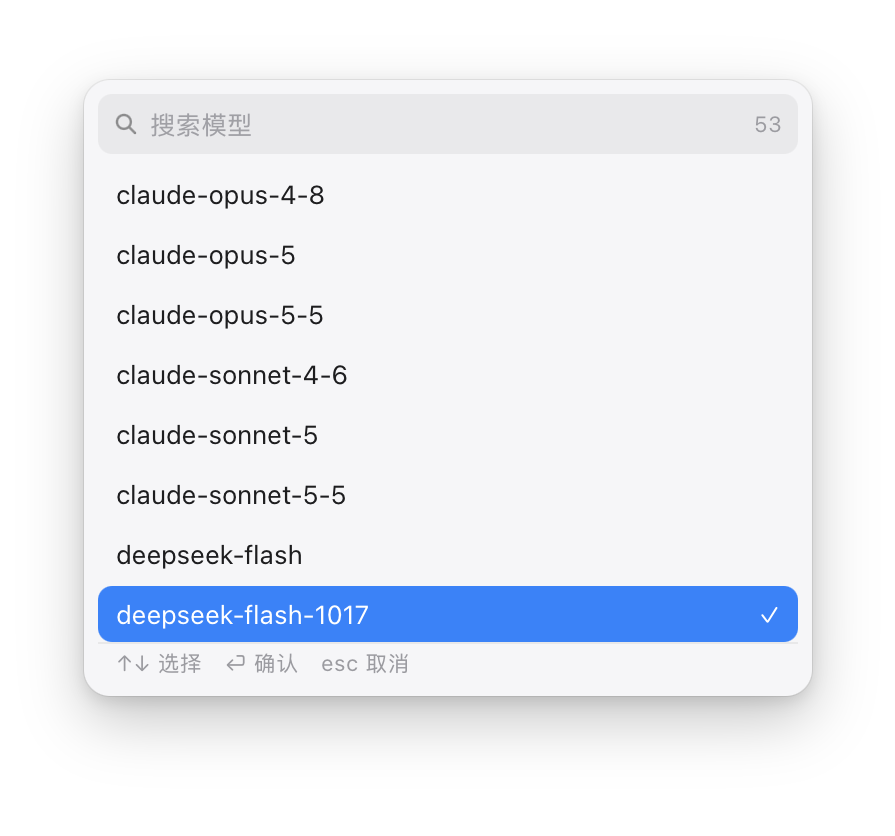
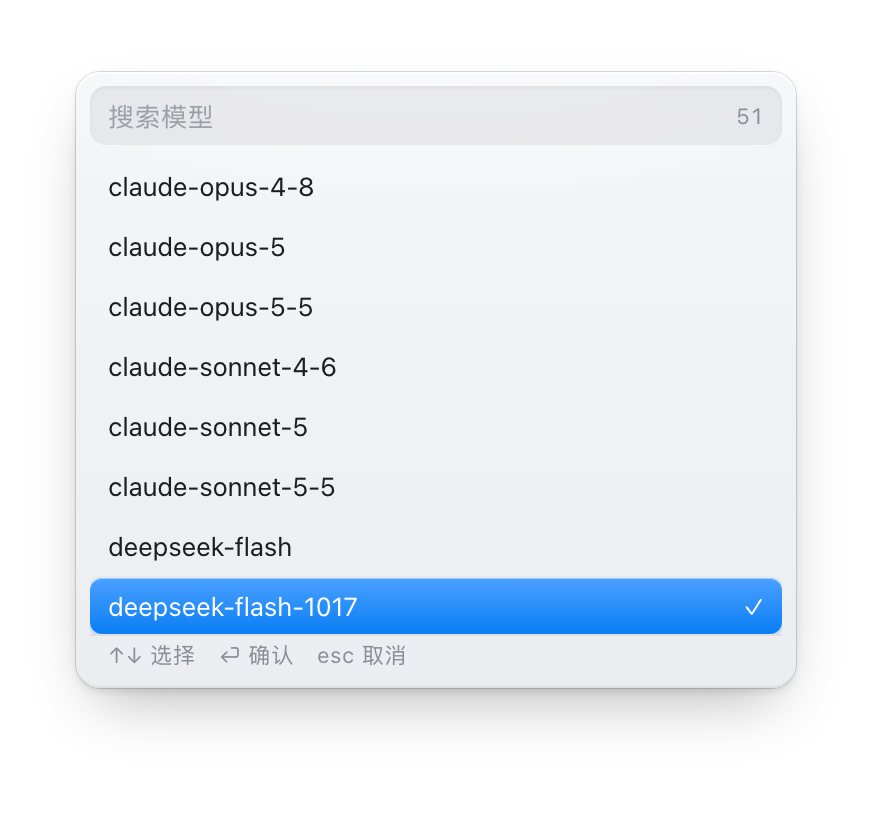
ui: rework both panels to macOS 27 (Golden Gate) Liquid Glass
27 的关键修正是可读性优先：更强的背景扩散、压暗的玻璃边缘、提亮的镜面
高光、统一收紧的窗口圆角、内容滚过浮动栏时的边缘渐隐。两个自绘面板按这
几条重做：

- 圆角 13 -> 12，留白 34/56/36 -> 36/64/38（集中到 GLASS 表，两面板共用）
- 卡片改为顶部受光的染色渐变 + 0.5px 压暗描边 + 内侧镜面高光线
- 阴影拆成 接触/环境 两层，扩散收紧、颜色加深，分离感更强
- 选中态从纯色块改为带顶部高光的玻璃色块
- 搜索框改为压进卡片的凹槽质感
- 列表滚到工具栏下方时顶端渐隐（scroll edge effect）
- toast 圆角 11 -> 12，补一道极淡亮边

注：hs.webview 拿不到 NSVisualEffectView，网页层对桌面做不了
backdrop-filter，所以玻璃感由不透明度接近实心的材质还原，而不是降低
alpha 让底下的文档透上来。

diff --git a/README.md b/README.md
@@ -54,6 +54,7 @@ WordWand 不是一个独立应用，它是 **Hammerspoon 的一份配置**。理
 | **模型随便换** | 自动读取网关 `/v1/models`，几十个模型可搜索切换 |
 | **记住选择** | 最近用过的模型排在最前，重启不丢；当前模型打勾 |
 | **不抢焦点** | 面板是非激活浮层，弹出来时原来的 App 仍是前台，粘贴才回得去 |
+| **按系统规范长** | 面板照 macOS 27 Golden Gate 的 Liquid Glass 重绘：统一收紧的圆角、压暗的玻璃边缘配镜面高光、列表滚动到栏下时边缘渐隐 |
 | **明暗自适应** | 跟随系统外观切换深浅色；菜单栏图标是矢量模板图，自动反色 |
 | **Key 不写进配置** | 环境变量 / `chmod 600` 文件 / 系统钥匙串，三种取法按顺序尝试 |
 | **出错有话说** | HTTP 状态、解析失败、超时都会明确提示，不静默失败 |
